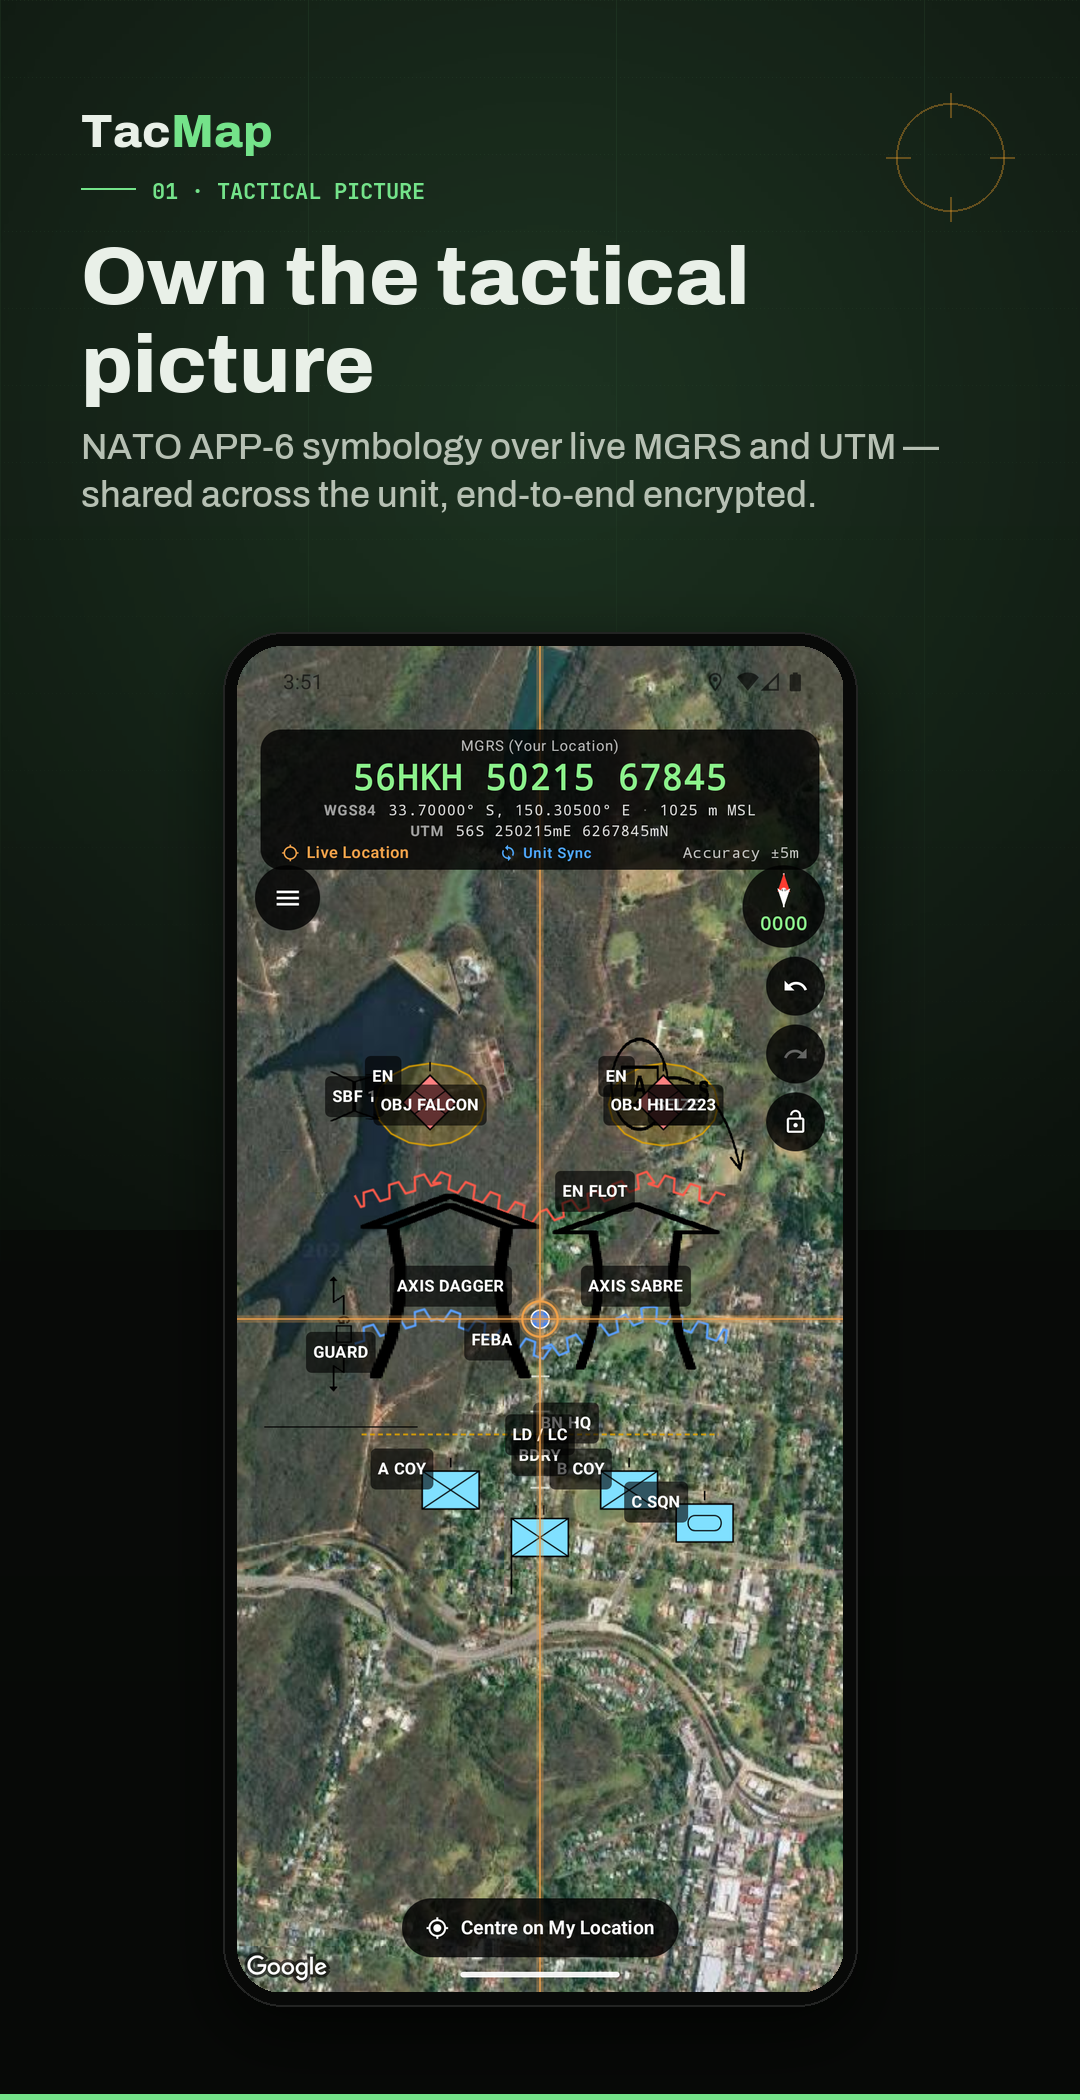
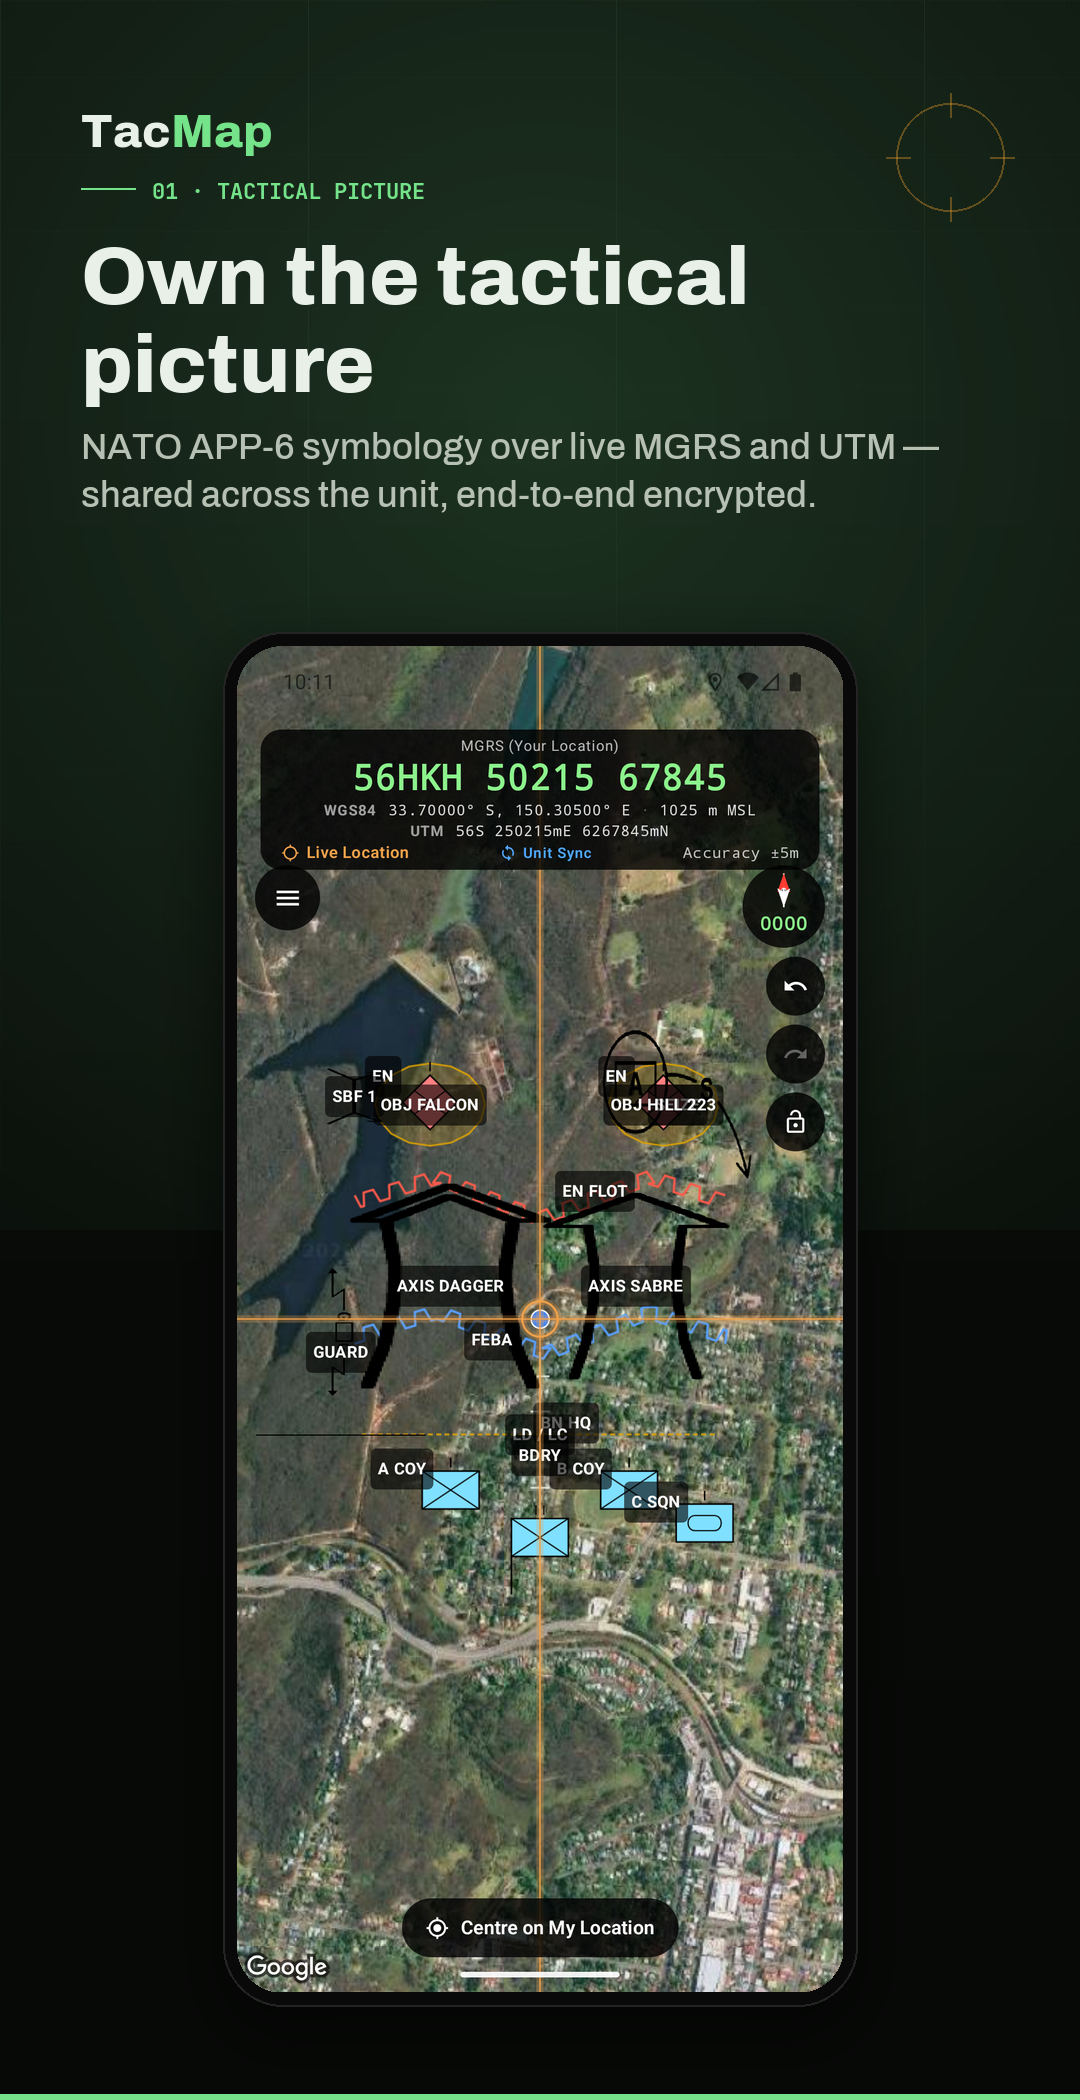
docs/store: Android phone + tablet → 10 branded slides, full iOS parity
Rebuild both Android sets to match the iOS sets exactly: same 10 features,
same order, same eyebrow numbering/headlines (only the device differs). Adds
the two features Android was missing — 03 · SYMBOLOGY ("Mark the ground") and
08 · APP-6 BUILDER ("Build any symbol") — and renumbers the rest to match iOS.

Android tablet is now branded and PORTRAIT (1600×2560), re-captured rotated —
previously raw landscape and unbranded.

Pipeline:
- scripts/android_capture_set.py — captures all 8 single-device slides in one
  release-APK session (Google Maps renders). Joins a Unit Sync room for the
  live NATO situation; dismisses the soft keyboard with BACK before Join.
- scripts/android_basemaps.py — derive real W×H from a screencap (wm size is
  wrong when a landscape-native tablet is rotated to portrait).
- scripts/compose_store_set.py — one shared SPEC composes all 10 numbered
  slides (9 single + the basemaps fan) for any device profile.

All 40 tiles verified (branding, text, feature visibility, consistency).

diff --git a/scripts/android_capture_set.py b/scripts/android_capture_set.py
@@ -1,0 +1,153 @@
+#!/usr/bin/env python3
+"""Capture the full single-device marketing set from a booted Android emulator
+in ONE session (release APK so Google Maps renders). Resolution-aware, so it
+runs unchanged on the phone (tm_phone, portrait) and the tablet (tm_tablet,
+rotated to portrait).
+
+Captures, against the live NATO situation joined from <room>:
+    hero          wide tactical picture on Google Satellite
+    symbols       zoomed-in APP-6 symbology ("Mark the ground")
+    unit-sync     the Unit Sync sheet, Connected
+    recording     the live REC breadcrumb indicator
+    weather       Weather & UAV safety sheet
+    import-export Import / Export sheet
+    symbol-builder the APP-6 editor (affiliation / echelon / function + preview)
+    search        Search sheet
+
+The basemaps fan (scripts/android_basemaps.py) and the GeoPDF hero
+(scripts/android_pdf_hero.py) are captured separately.
+
+    python3 scripts/android_capture_set.py <apk> <out_dir> <room>
+"""
+import re, subprocess, sys, time, xml.etree.ElementTree as ET
+
+APK, OUT, ROOM = sys.argv[1], sys.argv[2], sys.argv[3]
+PKG, ACT = "com.tacmap", "com.tacmap/.app.MainActivity"
+LON, LAT = "150.305", "-33.700"          # Blue Mountains = the situation centre
+
+def adb(*a, **k): return subprocess.run(["adb", *a], capture_output=True, **k)
+def sh(c): return adb("shell", *c.split()).stdout.decode("utf-8", "replace")
+def nodes():
+    adb("shell", "uiautomator", "dump", "/sdcard/ui.xml")
+    x = adb("shell", "cat", "/sdcard/ui.xml").stdout.decode("utf-8", "replace"); x = x[x.find("<?xml"):]
+    try: return list(ET.fromstring(x).iter("node"))
+    except ET.ParseError: return []
+def ctr(b): m = re.match(r"\[(\d+),(\d+)\]\[(\d+),(\d+)\]", b); return (int(m.group(1))+int(m.group(3)))//2, (int(m.group(2))+int(m.group(4)))//2
+def tap(x, y, p=2.0): adb("shell", "input", "tap", str(x), str(y)); time.sleep(p)
+def tapt(t, p=2.0, exact=False):
+    for n in nodes():
+        lab = (n.get("text", "") + n.get("content-desc", ""))
+        hit = (t == n.get("text", "")) if exact else (t.lower() in lab.lower())
+        if hit and n.get("bounds"):
+            x, y = ctr(n.get("bounds")); tap(x, y, p); print("  tapped", repr(t)); return True
+    print("  MISS", repr(t)); return False
+def ham(p=2.0):
+    best = None
+    for n in nodes():
+        if n.get("clickable") == "true" and n.get("bounds"):
+            x, y = ctr(n.get("bounds"))
+            if y < 700 and x < 400 and (best is None or x+y < best[2]): best = (x, y, x+y)
+    if best: tap(best[0], best[1], p); return True
+    print("  hamburger MISS"); return False
+def back(n=1):
+    for _ in range(n): adb("shell", "input", "keyevent", "4"); time.sleep(1.2)
+def on_map():
+    return any("centre on my location" in n.get("text", "").lower() for n in nodes())
+def ensure_map(tries=5):
+    for _ in range(tries):
+        if on_map(): return True
+        back(1)
+    adb("shell", "am", "start", "-n", ACT); time.sleep(3); return on_map()
+def snap(n):
+    png = adb("exec-out", "screencap", "-p").stdout
+    open(f"{OUT}/{n}.png", "wb").write(png); print("  snap", n, len(png)//1024, "KB")
+
+# ---- install + launch (release APK) ----
+print("install…"); adb("uninstall", PKG); print(adb("install", "-g", APK).stdout.decode()[-60:])
+for p in ("ACCESS_FINE_LOCATION", "ACCESS_COARSE_LOCATION", "POST_NOTIFICATIONS"):
+    adb("shell", "pm", "grant", PKG, f"android.permission.{p}")
+adb("shell", "settings", "put", "secure", "location_mode", "3")
+adb("emu", "geo", "fix", LON, LAT)
+adb("shell", "am", "start", "-n", ACT); time.sleep(9)
+adb("emu", "geo", "fix", LON, LAT); time.sleep(2)
+for lbl in ["While using", "Allow", "OK"]:
+    if tapt(lbl, 1.2): break
+import struct
+def screen_dims():
+    """Actual rendered W×H from a screencap (wm size reports the physical panel,
+    which is wrong when a landscape-native tablet is rotated to portrait)."""
+    png = adb("exec-out", "screencap", "-p").stdout
+    return struct.unpack(">I", png[16:20])[0], struct.unpack(">I", png[20:24])[0]
+W, H = screen_dims()
+CX, CY = W//2, H//2
+print(f"screen {W}x{H}")
+
+# ---- basemap: Google Satellite (release APK renders Google Maps) ----
+ensure_map(); ham(); tapt("Layers and Labels")
+tapt("Satellite", 3, exact=True)      # the plain "Satellite" row = Google
+back(1); time.sleep(4)
+
+# ---- join the NATO situation room ----
+ensure_map(); ham(); tapt("Unit Sync"); time.sleep(1)
+if any("Room code" in n.get("text", "") or "Leave" in n.get("text", "") for n in nodes()):
+    tapt("Leave", 2); back(1); time.sleep(1); ham(); tapt("Unit Sync"); time.sleep(1)
+ef = None
+for n in nodes():
+    if n.get("class", "").endswith("EditText") and n.get("bounds"): ef = ctr(n.get("bounds")); break
+if ef:
+    tap(*ef, p=1.0); adb("shell", "input", "text", ROOM); time.sleep(1.2)
+    adb("shell", "input", "keyevent", "4"); time.sleep(1.0)        # BACK dismisses the soft keyboard
+    btn = None                                                     # tap "Join / create room" by node
+    for n in nodes():
+        if "join / create" in n.get("text", "").lower() and n.get("bounds"): btn = ctr(n.get("bounds")); break
+    if btn: tap(*btn, p=2.0)
+    for _ in range(8):                                             # wait for CONNECTED
+        if any(n.get("text", "") == "Connected" for n in nodes()): print("  sync CONNECTED"); break
+        time.sleep(2)
+back(1); time.sleep(2)
+
+# ---- labels on ----
+ensure_map(); ham(); tapt("Layers and Labels")
+for lbl in ["Unit Labels", "Task Labels", "Drawing Labels"]:
+    ly = None
+    for n in nodes():
+        if n.get("text", "").strip() == lbl and n.get("bounds"): ly = ctr(n.get("bounds"))[1]; break
+    if ly:
+        for n in nodes():
+            if n.get("checkable") == "true" and n.get("bounds"):
+                x, y = ctr(n.get("bounds"))
+                if abs(y-ly) < 60 and n.get("checked") == "false": tap(x, y, 0.8); break
+back(1); time.sleep(2)
+
+# ---- frame + hero ----
+ensure_map(); tapt("Centre on My Location", 3); time.sleep(3)
+snap("hero")
+
+# ---- symbols: zoom in one level (double-tap centre) ----
+adb("shell", "input", "tap", str(CX), str(CY)); time.sleep(0.12)
+adb("shell", "input", "tap", str(CX), str(CY)); time.sleep(3)
+snap("symbols")
+# zoom back out so later sheets sit over the wide picture
+adb("shell", "input", "swipe", str(CX), str(CY-40), str(CX), str(CY+40), "120"); time.sleep(1)
+
+# ---- unit-sync sheet (Connected) ----
+ensure_map(); ham(); tapt("Unit Sync"); time.sleep(2); snap("unit-sync"); back(1); time.sleep(1)
+
+# ---- recording (REC indicator) ----
+ensure_map(); ham(); tapt("Start Track Recording", 3); time.sleep(2); snap("recording")
+ham(); tapt("Stop Track Recording", 2); time.sleep(1)            # stop it again
+
+# ---- weather ----
+ensure_map(); ham(); tapt("Weather", 4); time.sleep(2); snap("weather"); back(1); time.sleep(1)
+
+# ---- import / export ----
+ensure_map(); ham(); tapt("Import / Export", 3); time.sleep(1); snap("import-export"); back(1); time.sleep(1)
+
+# ---- symbol builder (APP-6 editor) ----
+ensure_map(); ham(); tapt("Symbology", 3)
+tapt("Add Military Unit", 3); time.sleep(1); snap("symbol-builder")
+tapt("Cancel", 2); back(2); time.sleep(1)
+
+# ---- search ----
+ensure_map(); ham(); tapt("Search", 3); time.sleep(1); snap("search"); back(1)
+print("DONE android_capture_set")

diff --git a/scripts/compose_store_set.py b/scripts/compose_store_set.py
@@ -1,0 +1,66 @@
+#!/usr/bin/env python3
+"""Compose the canonical 10-slide branded store set (shared text/order across
+iOS + Android) for one device profile. 9 single-device slides via
+store_screenshots, the basemaps slide as a 3-device fan via fan_slide.
+
+The slide text/eyebrow/accent is identical for every device so the four sets
+(iPhone, iPad, Android phone, Android tablet) stay consistent — only the raw
+screenshots and the output canvas size differ.
+
+    python3 scripts/compose_store_set.py <profile.json>
+
+profile = {
+  "W":1080,"H":2100,
+  "raw_dir":"/abs/raws",              # hero.png symbols.png unit-sync.png recording.png
+                                      # weather.png import-export.png symbol-builder.png search.png
+  "pdf_src":"/abs/pdf-hero.png",      # the imported-GeoPDF capture (staged in as pdf-hero.png)
+  "basemaps_dir":"/abs/basemaps",     # bm-esri.png bm-terrain.png bm-satellite.png
+  "out_dir":"/abs/out",               # writes 01-hero.png … 10-pdfmap.png
+  "fan":{"angle":13,"device_w":0.40,"offx":0.225}
+}
+"""
+import json, os, sys, shutil
+sys.path.insert(0, os.path.dirname(os.path.abspath(__file__)))
+import store_screenshots as ss
+import fan_slide
+
+# (number-name, type, src, eyebrow, headline, subcaption, accent)
+SPEC = [
+ ("01-hero",          "single","hero.png",          "01 · TACTICAL PICTURE","Own the tactical picture","NATO APP-6 symbology over live MGRS and UTM — shared across the unit, end-to-end encrypted.","green"),
+ ("02-unit-sync",     "single","unit-sync.png",     "02 · UNIT SYNC","One map, the whole unit","Symbols, drawings and waypoints sync live across iOS and Android — end-to-end encrypted.","blue"),
+ ("03-symbols",       "single","symbols.png",       "03 · SYMBOLOGY","Mark the ground","Place NATO APP-6 symbols, then trace routes and areas point by point.","green"),
+ ("04-recording",     "single","recording.png",     "04 · GPX TRACKS","Record your route","A live REC breadcrumb with point count — export as standard GPX.","amber"),
+ ("05-weather",       "single","weather.png",       "05 · WEATHER + UAV","Go, caution, no-go","Map-centre wind and gusts drive the drone flight-safety call.","amber"),
+ ("06-basemaps",      "fan",   None,                 "06 · BASEMAPS & TERRAIN","Satellite or terrain","Native satellite, Esri high-res imagery, or OpenTopoMap topography — switch basemap in a tap.","green"),
+ ("07-import-export", "single","import-export.png", "07 · IMPORT & EXPORT","In and out, anywhere","Import GeoPDF, KML and KMZ; export GeoJSON and GPX.","blue"),
+ ("08-symbol-builder","single","symbol-builder.png","08 · APP-6 BUILDER","Build any symbol","Affiliation, echelon and function with a live preview.","blue"),
+ ("09-search",        "single","search.png",        "09 · SEARCH","Jump to any grid","Search a place name, or a full / partial MGRS reference.","green"),
+ ("10-pdfmap",        "single","pdf-hero.png",      "10 · OFFLINE MAPS","Bring your own map","Import a GeoPDF or defence map sheet — georeferenced on-device, with your live tactical picture on top.","amber"),
+]
+
+def main():
+    p = json.load(open(sys.argv[1]))
+    W, H = p["W"], p["H"]
+    raw, out = p["raw_dir"], p["out_dir"]
+    os.makedirs(out, exist_ok=True)
+    if p.get("pdf_src"):
+        shutil.copy(p["pdf_src"], os.path.join(raw, "pdf-hero.png"))
+    fan = p.get("fan", {})
+    for name, kind, src, eb, hl, sub, ac in SPEC:
+        op = os.path.join(out, name + ".png")
+        if kind == "single":
+            ss.render({"src": src, "eyebrow": eb, "headline": hl, "subcaption": sub, "accent": ac},
+                      W, H, raw, op)
+        else:
+            fan_slide.render_fan({
+                "W": W, "H": H, "src_dir": p["basemaps_dir"], "out_path": op,
+                "eyebrow": eb, "headline": hl, "subcaption": sub, "accent": ac,
+                "angle": fan.get("angle", 13), "device_w": fan.get("device_w", 0.40),
+                "offx": fan.get("offx", 0.225),
+                "devices": [{"src": "bm-esri.png", "label": "Esri"},
+                            {"src": "bm-terrain.png", "label": "Terrain"},
+                            {"src": "bm-satellite.png", "label": "Satellite"}]})
+        print("wrote", op)
+
+if __name__ == "__main__":
+    main()

diff --git a/scripts/android_basemaps.py b/scripts/android_basemaps.py
@@ -58,11 +58,14 @@ adb("shell","settings","put","secure","location_mode","3")
 adb("emu","geo","fix","150.305","-33.700")
 adb("shell","am","start","-n",ACT); time.sleep(9)
 adb("emu","geo","fix","150.305","-33.700"); time.sleep(2)
-print(f"size={sh('wm size').strip()}")
-_m = re.search(r'(\d+)x(\d+)', sh('wm size'))
-if _m:
-    SCREEN_W, SCREEN_H = int(_m.group(1)), int(_m.group(2))
-    print(f"detected {SCREEN_W}x{SCREEN_H}")
+import struct
+def screen_dims():
+    """Actual rendered W×H from a screencap (wm size reports the physical panel,
+    wrong when a landscape-native tablet is rotated to portrait)."""
+    png = adb("exec-out", "screencap", "-p").stdout
+    return struct.unpack(">I", png[16:20])[0], struct.unpack(">I", png[20:24])[0]
+SCREEN_W, SCREEN_H = screen_dims()
+print(f"detected {SCREEN_W}x{SCREEN_H}")
 CX, CY = SCREEN_W // 2, int(SCREEN_H * 0.49)
 tapt("Centre on My Location", p=3); time.sleep(2)
 # zoom in one notch so terrain detail reads
